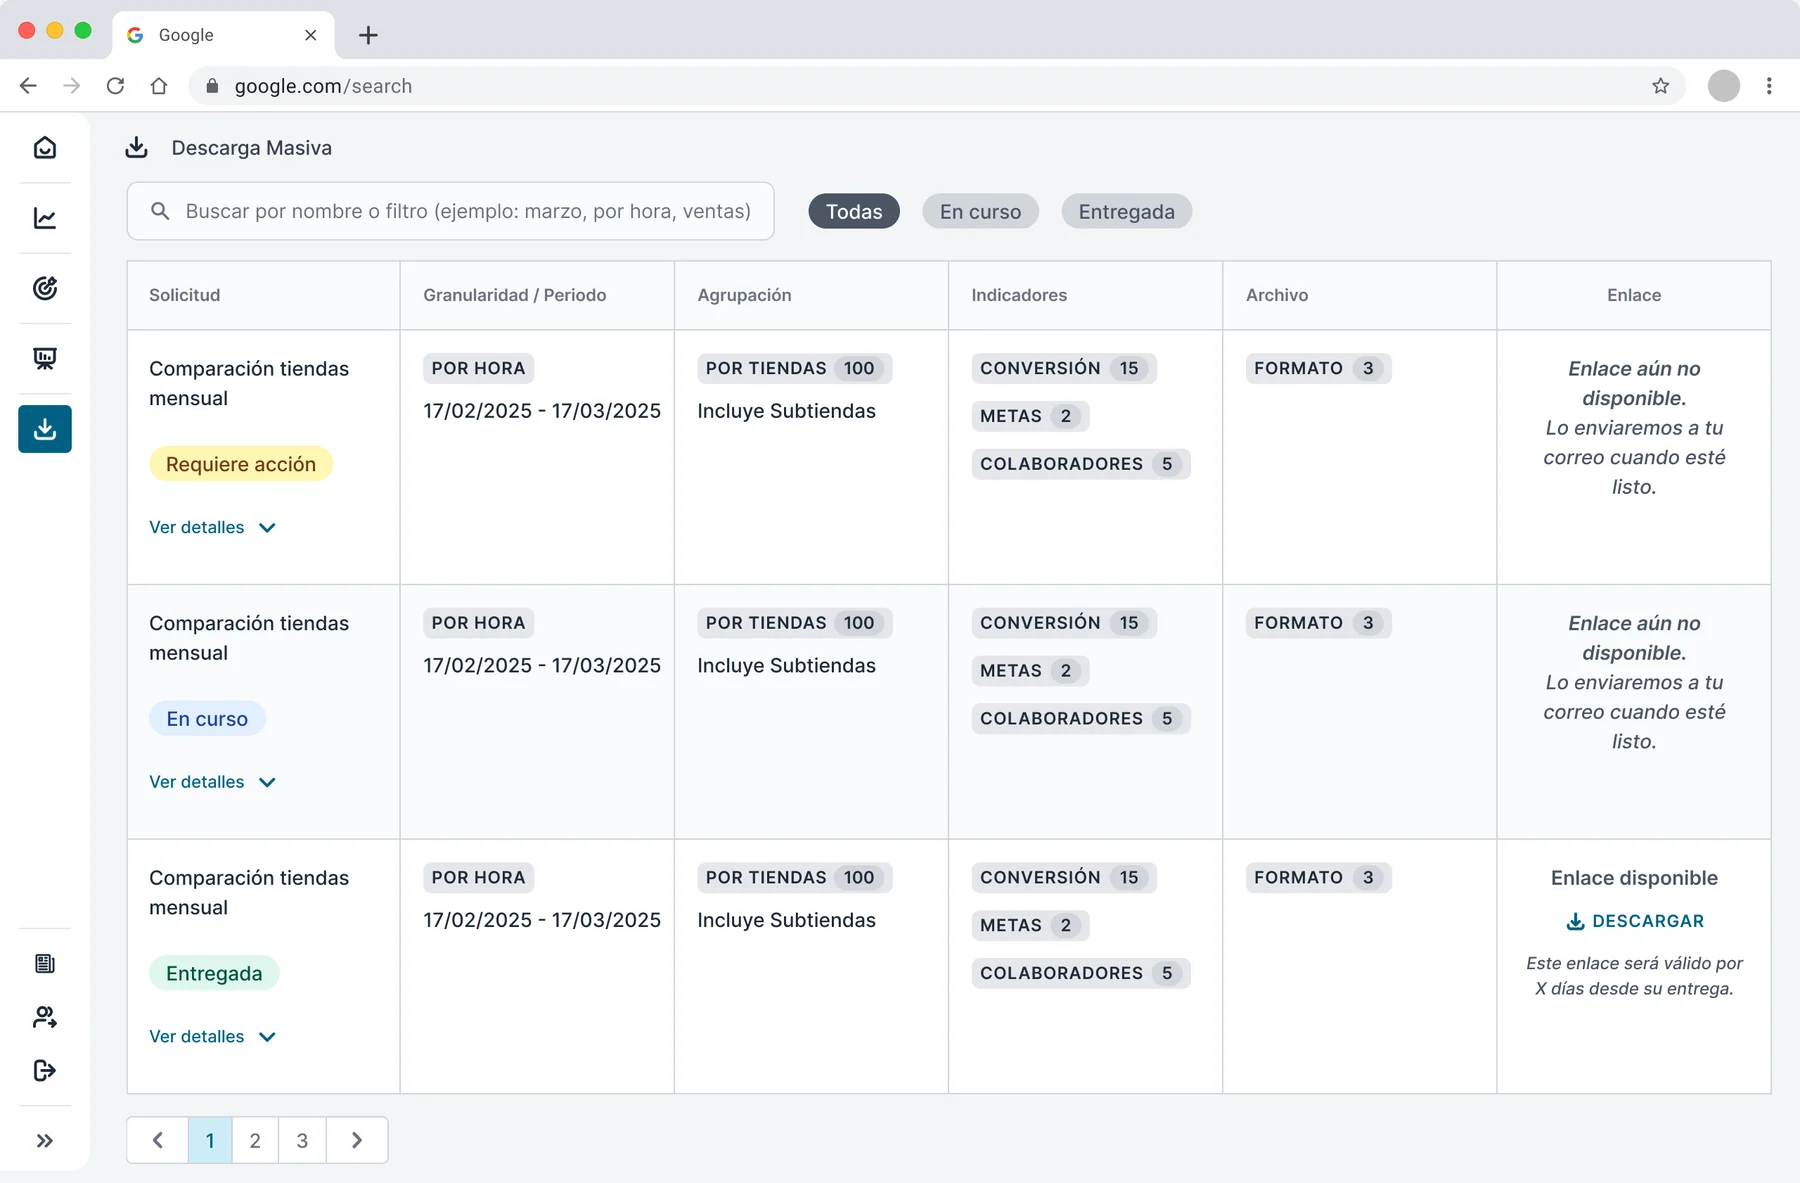
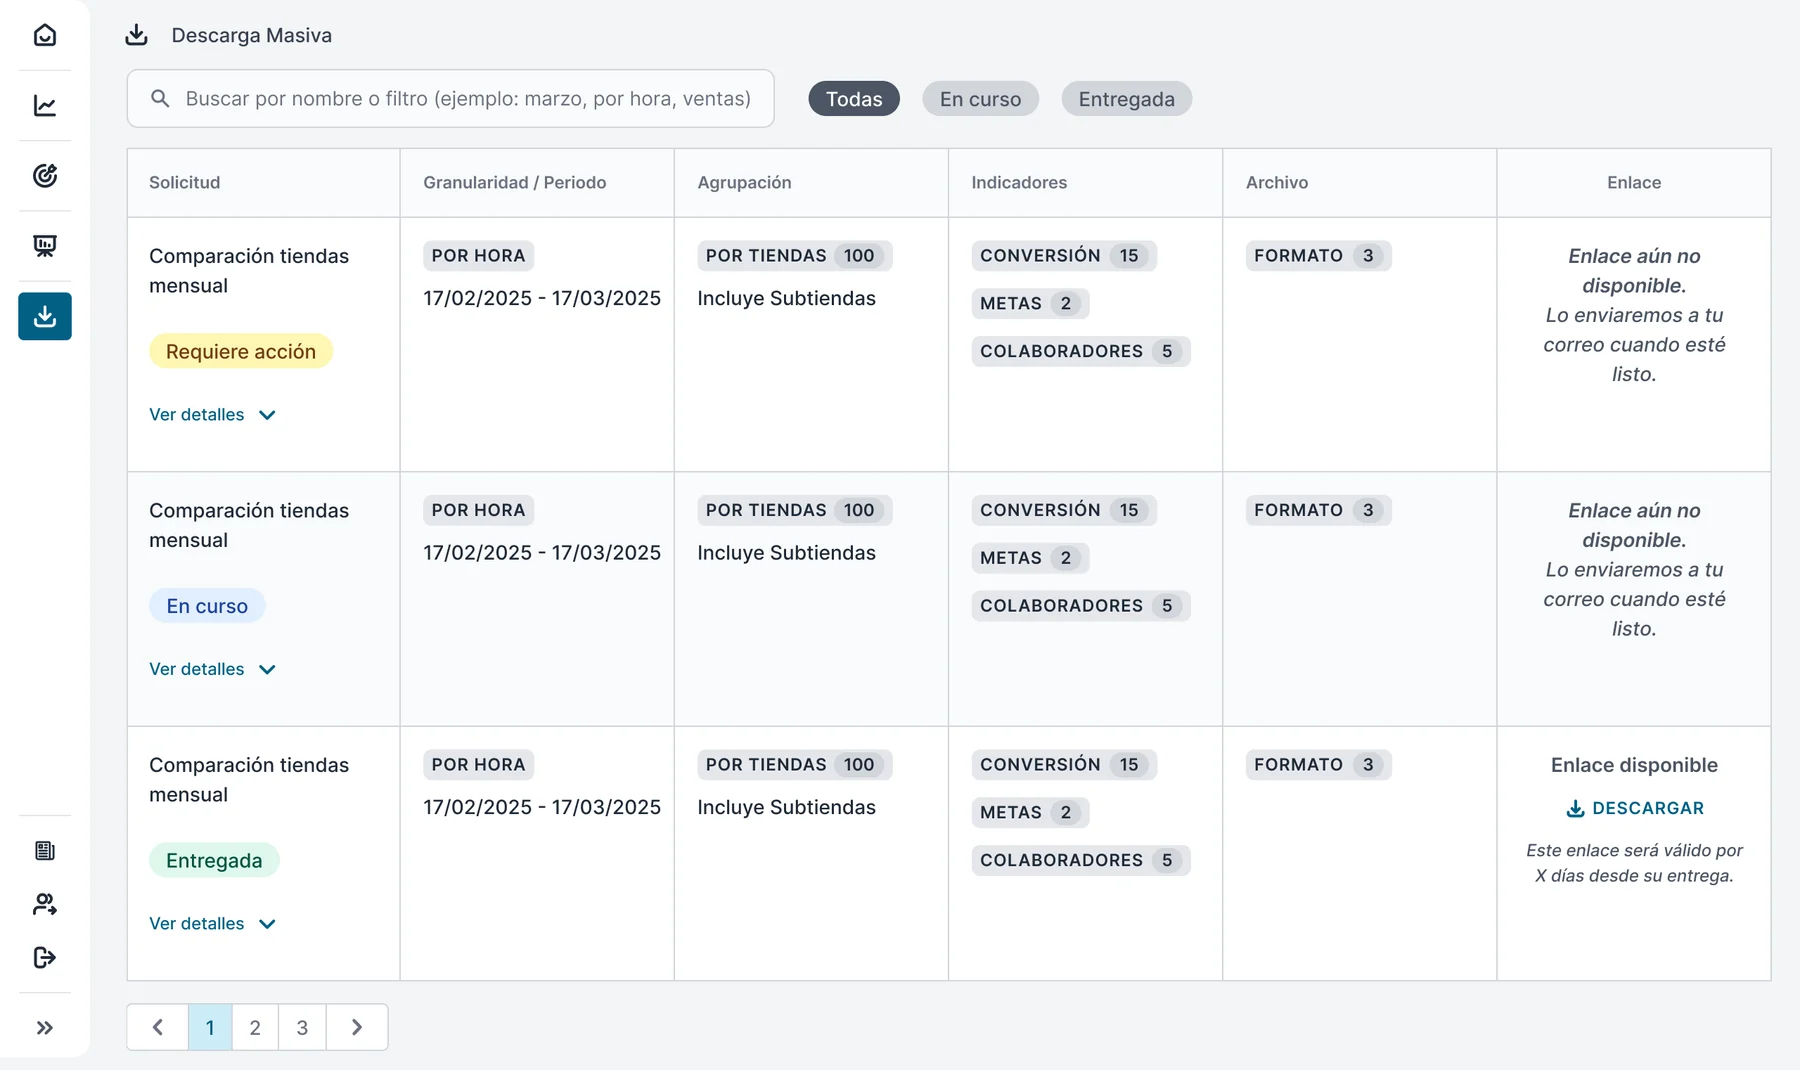
Plataforma BI · Descarga Masiva: historiales sin barra del navegador
Claude-Session: https://claude.ai/code/session_01UYqgEbCiSSGF4VPAAjuLQ2

diff --git a/proyectos/plataforma-bi.html b/proyectos/plataforma-bi.html
@@ -351,8 +351,8 @@ scripts:
 <div class="tabla-desliza"><table style="width: 100%; border-collapse: collapse; border: 1px solid #000"><thead><tr><th scope="col" style="text-align: left; padding: 14px 20px; font-family: 'Archivo', sans-serif; font-size: 12px; letter-spacing: 0.06em; text-transform: uppercase; font-weight: 600; background: #000; color: #fff; width: 32%">Lo ideal<span aria-hidden="true" style="margin-left: 8px">→</span></th><th scope="col" style="text-align: left; padding: 14px 20px; font-family: 'Archivo', sans-serif; font-size: 12px; letter-spacing: 0.06em; text-transform: uppercase; font-weight: 600; background: #000; color: #fff; width: 32%">Por qué no fue posible<span aria-hidden="true" style="margin-left: 8px">→</span></th><th scope="col" style="text-align: left; padding: 14px 20px; font-family: 'Archivo', sans-serif; font-size: 12px; letter-spacing: 0.06em; text-transform: uppercase; font-weight: 600; background: #000; color: #fff">El punto medio</th></tr></thead><tbody><tr><th scope="row" style="text-align: left; vertical-align: top; padding: 18px 20px; border-top: 1px solid #000; font-family: 'Archivo', sans-serif; font-weight: 500; font-size: 16px; line-height: 1.45">Mostrar un tiempo estimado de entrega, y un estado "Requiere acción" para las solicitudes que no llegaran en ese plazo</th><td style="vertical-align: top; padding: 18px 20px; border-top: 1px solid #000; border-left: 1px solid rgba(0,0,0,0.15); color: rgba(0,0,0,0.75); line-height: 1.6; font-size: 16px">La demora depende de la demanda del sistema en cada momento, no de los datos pedidos</td><td style="vertical-align: top; padding: 18px 20px; border-top: 1px solid #000; border-left: 1px solid rgba(0,0,0,0.15); color: rgba(0,0,0,0.75); line-height: 1.6; font-size: 16px; background: #f2f2f2; color: #000; border-left: 1px solid #000">No hubo punto medio: no había forma de dar una estimación realista. Optamos por ser honestos sobre la espera.</td></tr><tr><th scope="row" style="text-align: left; vertical-align: top; padding: 18px 20px; border-top: 1px solid #000; font-family: 'Archivo', sans-serif; font-weight: 500; font-size: 16px; line-height: 1.45">Enviar un correo de confirmación con el resumen de lo pedido</th><td style="vertical-align: top; padding: 18px 20px; border-top: 1px solid #000; border-left: 1px solid rgba(0,0,0,0.15); color: rgba(0,0,0,0.75); line-height: 1.6; font-size: 16px">No era posible hacer esto para cada solicitud por limitaciones del sistema.</td><td style="vertical-align: top; padding: 18px 20px; border-top: 1px solid #000; border-left: 1px solid rgba(0,0,0,0.15); color: rgba(0,0,0,0.75); line-height: 1.6; font-size: 16px; background: #f2f2f2; color: #000; border-left: 1px solid #000">Una alerta en pantalla que confirma la solicitud y explica los siguientes pasos.</td></tr><tr><th scope="row" style="text-align: left; vertical-align: top; padding: 18px 20px; border-top: 1px solid #000; font-family: 'Archivo', sans-serif; font-weight: 500; font-size: 16px; line-height: 1.45">Elegir el formato del archivo: Excel, CSV o JSON</th><td style="vertical-align: top; padding: 18px 20px; border-top: 1px solid #000; border-left: 1px solid rgba(0,0,0,0.15); color: rgba(0,0,0,0.75); line-height: 1.6; font-size: 16px">Cada formato necesitaba su propio enlace de descarga</td><td style="vertical-align: top; padding: 18px 20px; border-top: 1px solid #000; border-left: 1px solid rgba(0,0,0,0.15); color: rgba(0,0,0,0.75); line-height: 1.6; font-size: 16px; background: #f2f2f2; color: #000; border-left: 1px solid #000">Excel como único formato, por ser más accesible que CSV.</td></tr><tr><th scope="row" style="text-align: left; vertical-align: top; padding: 18px 20px; border-top: 1px solid #000; font-family: 'Archivo', sans-serif; font-weight: 500; font-size: 16px; line-height: 1.45">Incluir todos los indicadores de la plataforma</th><td style="vertical-align: top; padding: 18px 20px; border-top: 1px solid #000; border-left: 1px solid rgba(0,0,0,0.15); color: rgba(0,0,0,0.75); line-height: 1.6; font-size: 16px">No fue posible incluir los relacionados a colaboradores (Dotación, CPV, etc.)</td><td style="vertical-align: top; padding: 18px 20px; border-top: 1px solid #000; border-left: 1px solid rgba(0,0,0,0.15); color: rgba(0,0,0,0.75); line-height: 1.6; font-size: 16px; background: #f2f2f2; color: #000; border-left: 1px solid #000">Todos los indicadores menos los de colaboradores.</td></tr><tr><th scope="row" style="text-align: left; vertical-align: top; padding: 18px 20px; border-top: 1px solid #000; font-family: 'Archivo', sans-serif; font-weight: 500; font-size: 16px; line-height: 1.45">Granularidad semanal y trimestral, que pidió el discovery</th><td style="vertical-align: top; padding: 18px 20px; border-top: 1px solid #000; border-left: 1px solid rgba(0,0,0,0.15); color: rgba(0,0,0,0.75); line-height: 1.6; font-size: 16px">Requerían tablas nuevas en el backend.</td><td style="vertical-align: top; padding: 18px 20px; border-top: 1px solid #000; border-left: 1px solid rgba(0,0,0,0.15); color: rgba(0,0,0,0.75); line-height: 1.6; font-size: 16px; background: #f2f2f2; color: #000; border-left: 1px solid #000">Se agregaron mes y año, que usan tablas existentes. Semana y trimestre quedaron fuera de la primera versión.</td></tr><tr><th scope="row" style="text-align: left; vertical-align: top; padding: 18px 20px; border-top: 1px solid #000; font-family: 'Archivo', sans-serif; font-weight: 500; font-size: 16px; line-height: 1.45">Buscador y filtros por estado en el historial</th><td style="vertical-align: top; padding: 18px 20px; border-top: 1px solid #000; border-left: 1px solid rgba(0,0,0,0.15); color: rgba(0,0,0,0.75); line-height: 1.6; font-size: 16px">Llegaron al diseño final, pero en producción no funcionaron bien.</td><td style="vertical-align: top; padding: 18px 20px; border-top: 1px solid #000; border-left: 1px solid rgba(0,0,0,0.15); color: rgba(0,0,0,0.75); line-height: 1.6; font-size: 16px; background: #f2f2f2; color: #000; border-left: 1px solid #000">Se descartaron.</td></tr><tr><th scope="row" style="text-align: left; vertical-align: top; padding: 18px 20px; border-top: 1px solid #000; font-family: 'Archivo', sans-serif; font-weight: 500; font-size: 16px; line-height: 1.45">Descargas más rápidas</th><td style="vertical-align: top; padding: 18px 20px; border-top: 1px solid #000; border-left: 1px solid rgba(0,0,0,0.15); color: rgba(0,0,0,0.75); line-height: 1.6; font-size: 16px">Un proceso dedicado a Descarga Masiva podría acelerarlas, pero su costo-beneficio estaba por evaluar</td><td style="vertical-align: top; padding: 18px 20px; border-top: 1px solid #000; border-left: 1px solid rgba(0,0,0,0.15); color: rgba(0,0,0,0.75); line-height: 1.6; font-size: 16px; background: #f2f2f2; color: #000; border-left: 1px solid #000">Quedó pendiente de evaluación.</td></tr></tbody></table></div>
 <div class="alternar" style="margin-top: 8px">
 <div aria-label="Cambiar entre la versión ideal y la versión posible" class="alternar__botones" role="group"><button aria-pressed="true" class="alternar__boton" data-vista="ideal" type="button">Lo ideal</button><button aria-pressed="false" class="alternar__boton" data-vista="posible" type="button">Lo posible</button></div>
-<div class="alternar__vista" data-vista="ideal"><div class="pila g-8"><div style="border: 1px solid #000; line-height: 0; overflow: hidden"><img alt="Historial de la versión ideal: buscador, filtros por estado, y una tabla con estado Requiere acción, En curso o Entregada, granularidad y período, agrupación, indicadores (incluidos los de colaboradores), formato de archivo y enlace de descarga con su vigencia." class="img-ancho" decoding="async" height="1183" loading="lazy" src="{{ '/assets/img/plataforma-bi/22-descarga-ideal-historial.webp' | relative_url }}" width="1800"/></div><span class="pie-imagen">Lo ideal: historial de la primera iteración, con estado "Requiere acción", elección de formato e indicadores de colaboradores.</span></div></div>
-<div class="alternar__vista" data-vista="posible" hidden=""><div class="pila g-8"><div style="border: 1px solid #000; line-height: 0; overflow: hidden"><img alt="Historial final: interruptor entre Historial de solicitudes y Nueva solicitud, buscador, filtros por estado y una tabla con nombre, estado En curso o Entregada, granularidad y período, agrupación, indicadores y enlace de descarga." class="img-ancho" decoding="async" height="1183" loading="lazy" src="{{ '/assets/img/plataforma-bi/23-descarga-posible-historial.webp' | relative_url }}" width="1800"/></div><span class="pie-imagen">Lo posible: historial final, sin "Requiere acción", columna de formato ni indicadores de colaboradores.</span></div></div>
+<div class="alternar__vista" data-vista="ideal"><div class="pila g-8"><div style="border: 1px solid #000; line-height: 0; overflow: hidden"><img alt="Historial de la versión ideal: buscador, filtros por estado, y una tabla con estado Requiere acción, En curso o Entregada, granularidad y período, agrupación, indicadores (incluidos los de colaboradores), formato de archivo y enlace de descarga con su vigencia." class="img-ancho" decoding="async" height="1070" loading="lazy" src="{{ '/assets/img/plataforma-bi/22-descarga-ideal-historial.webp' | relative_url }}" width="1800"/></div><span class="pie-imagen">Lo ideal: historial de la primera iteración, con estado "Requiere acción", elección de formato e indicadores de colaboradores.</span></div></div>
+<div class="alternar__vista" data-vista="posible" hidden=""><div class="pila g-8"><div style="border: 1px solid #000; line-height: 0; overflow: hidden"><img alt="Historial final: interruptor entre Historial de solicitudes y Nueva solicitud, buscador, filtros por estado y una tabla con nombre, estado En curso o Entregada, granularidad y período, agrupación, indicadores y enlace de descarga." class="img-ancho" decoding="async" height="1070" loading="lazy" src="{{ '/assets/img/plataforma-bi/23-descarga-posible-historial.webp' | relative_url }}" width="1800"/></div><span class="pie-imagen">Lo posible: historial final, sin "Requiere acción", columna de formato ni indicadores de colaboradores.</span></div></div>
 </div>
 </section>
 <section aria-labelledby="descarga-decisiones-t" id="descarga-decisiones" style="border-top: 1px solid rgba(0,0,0,0.15); padding-top: 56px; scroll-margin-top: 110px; display: flex; flex-direction: column; gap: 24px">
